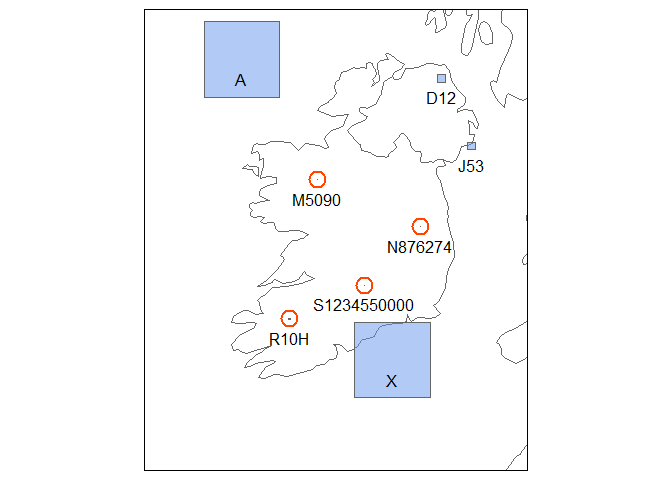
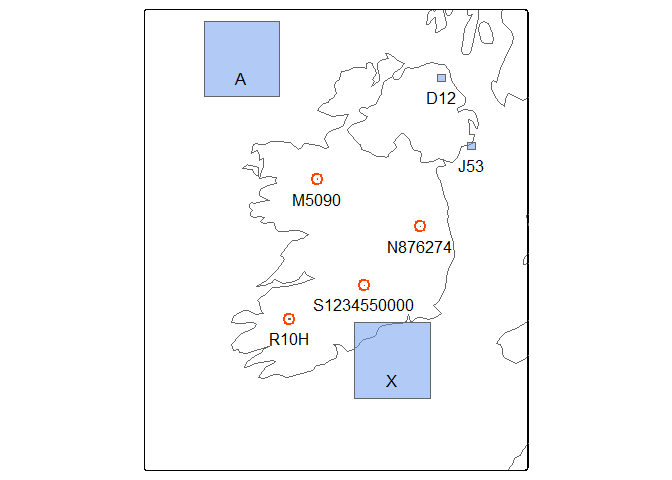
feat: converted to tmap 4.0.0 to address issue #4

diff --git a/README.md b/README.md
@@ -25,8 +25,7 @@ to a particular 100 km square. An Irish grid reference with a 1-digit
 easting and northing (e.g. “N85”) refers to a 10 km square. A 5-digit
 easting and northing (e.g. “N 12345 67890”) refers to a 1 m square. The
 tetrad form of Irish grid reference consists of a 10 km square reference
-followed by a letter (e.g. “N85R”). This refers to a 2 km square within
-the 10 km square referenced.
+followed by a letter (e.g. “N85R”). This refers to a 2 km square.
 
 This package supports Irish grid references of 1 m, 10 m, 100 m, 1 km, 2
 km, 10 km and 100 km precision. Irish grid references can be of mixed
